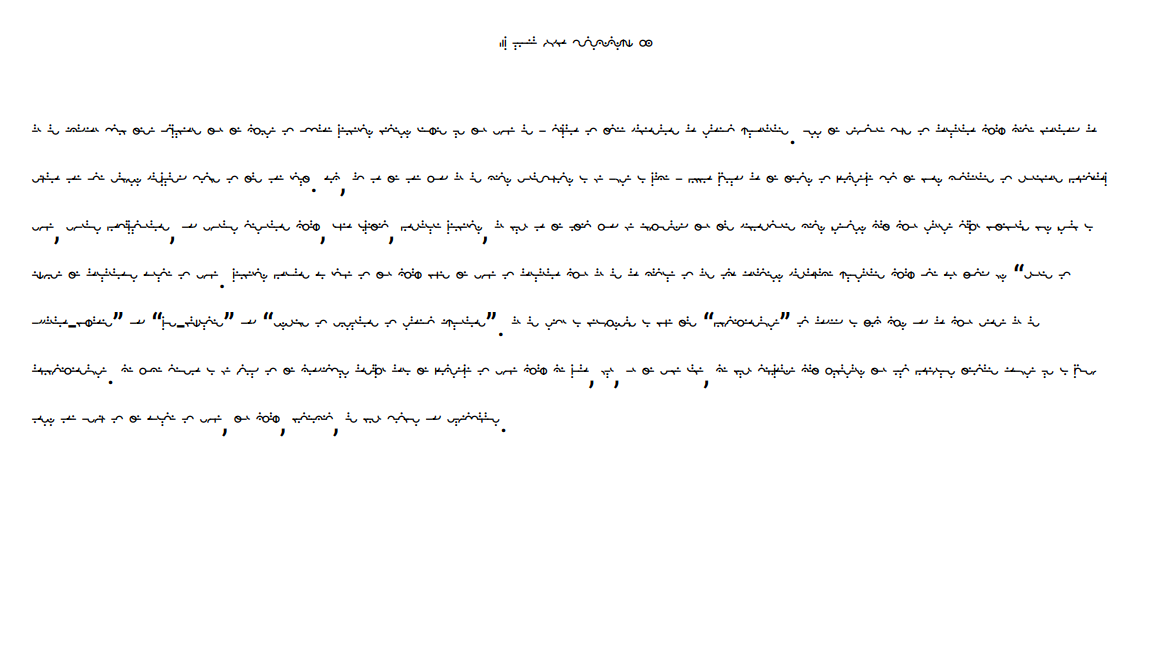
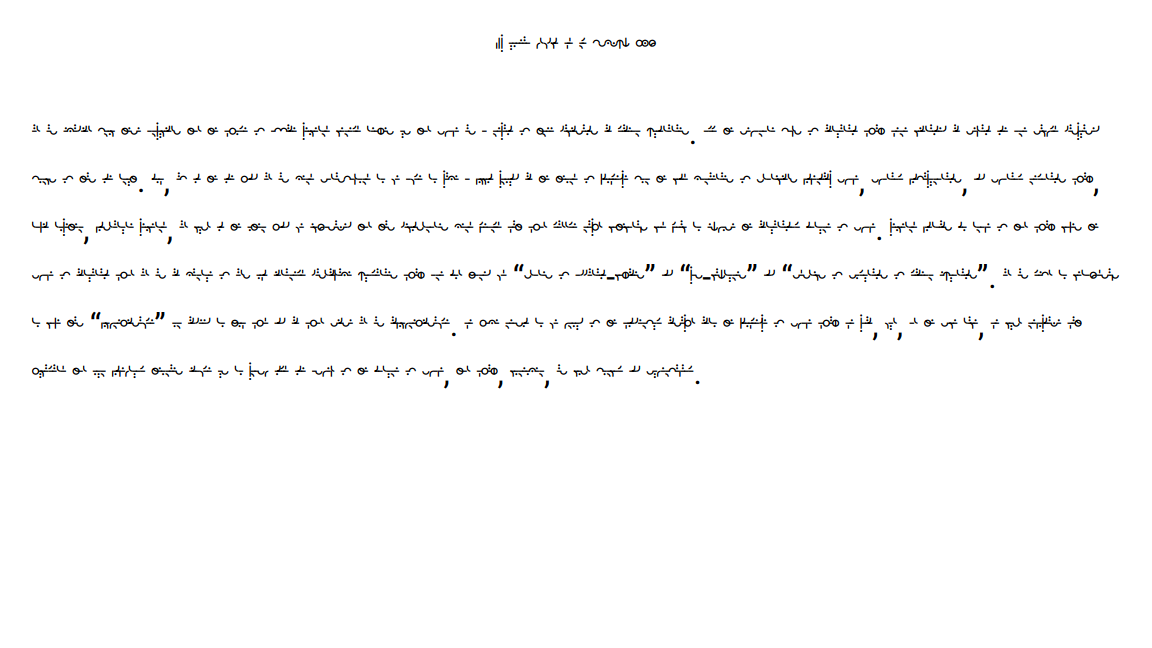
Clarify; differentiate r/l, w/y

diff --git a/specimen/specimen.html b/specimen/specimen.html
@@ -55,7 +55,7 @@
   </head>
   <body>
     <section class="affine" style="line-height: 1;text-align: center;">
-      <p>ckg uoaei ptbdmn fsrlvzwyqx hj</p>
+      <p>ckg uoaeia ptbdmn wy rl fsvzqx hjph</p>
     </section>
 
     <div class="screen-two-up">
